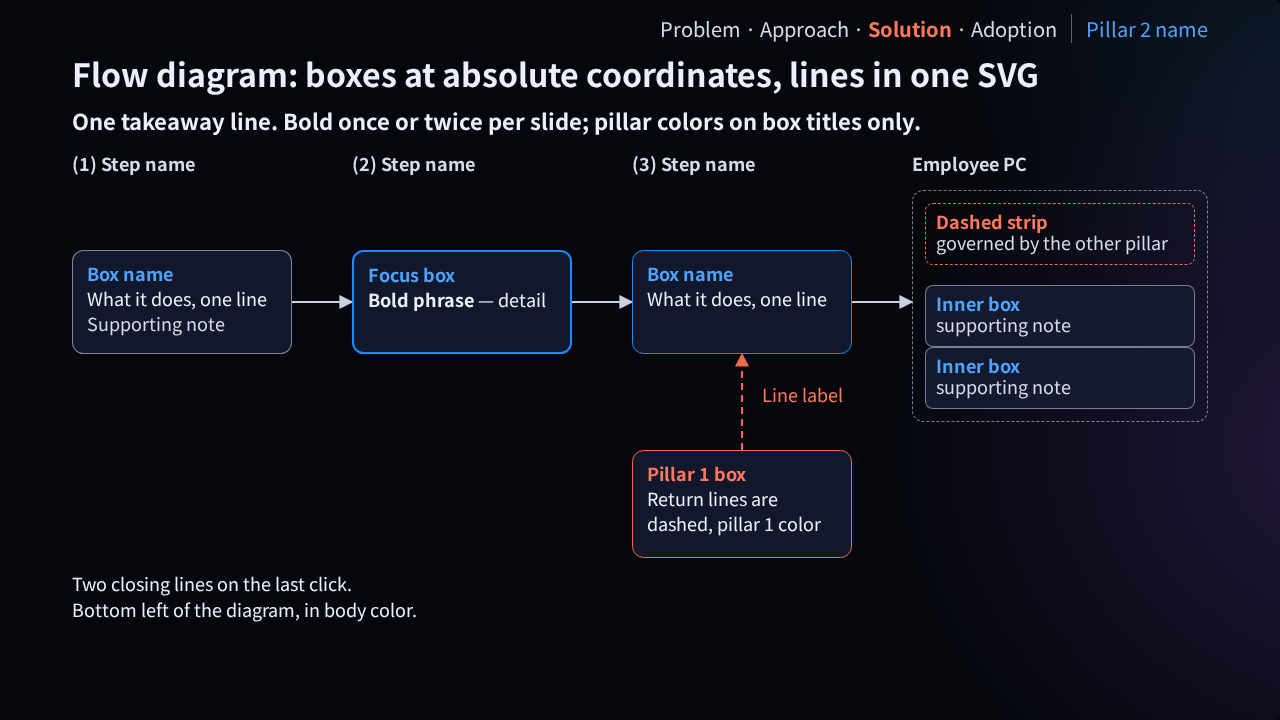
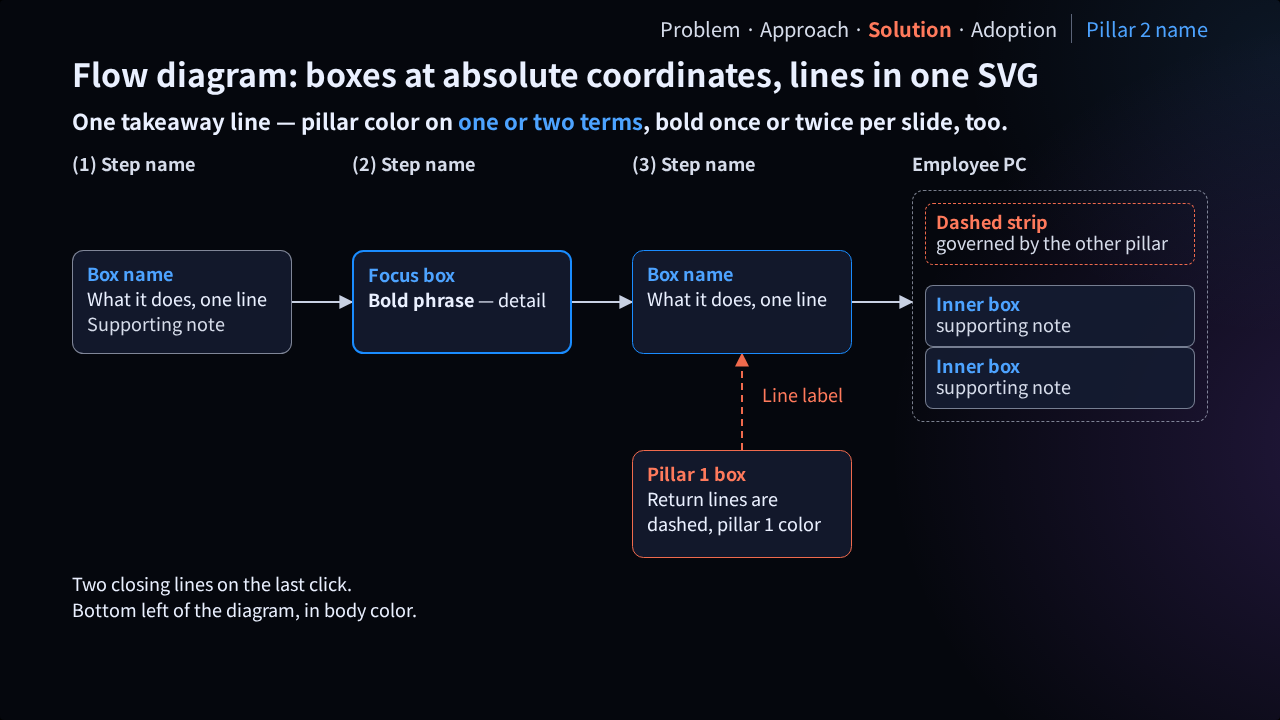
deck-web: write down the color rule — pillar color on one to three key terms in title and takeaway
SKILL.md and lessons.md state the rule; the template's slide-2 takeaway placeholder said the opposite and is fixed (en.json key updated, renders re-captured).

Changed region(s): [[0.2188, 0.1528, 0.7812, 0.1833]]

diff --git a/plugins/deck-design/skills/deck-web/templates/deck.html b/plugins/deck-design/skills/deck-web/templates/deck.html
@@ -294,7 +294,7 @@
   <section class="slide" data-title="흐름 도식">
     <p class="rail">문제 · 접근 · <b>해법</b> · 적용<span class="chip p2">기둥 2 이름</span></p>
     <h2>흐름 도식: 상자는 절대 좌표, 선은 SVG 한 장</h2>
-    <p class="takeaway">결론 한 줄. <b>굵게</b>는 장당 한두 곳, 기둥 색은 상자 제목에만.</p>
+    <p class="takeaway">결론 한 줄 — 핵심어 <span class="p2">한두 곳</span>만 기둥 색, <b>굵게</b>도 장당 한두 곳.</p>
     <div class="diag" style="height: 470px">
       <svg class="lines" viewBox="0 0 1136 470" aria-hidden="true">
         <g data-step="2" fill="none" stroke="#C9D1E3" stroke-width="2"><path d="M220 152 H280" marker-end="url(#ah)"/></g>

diff --git a/plugins/deck-design/skills/deck-web/reference/lessons.md b/plugins/deck-design/skills/deck-web/reference/lessons.md
@@ -17,6 +17,10 @@ lessons live in `../../deck-build/reference/korean-deck-notes.md` and apply here
 - **A fixed pill in the corner is invisible.** The first 한|EN toggle was pinned bottom-right; the author said it
   was not easily visible. It moved into the controls row beside ← 이전 / 다음 → with the same button look (current
   language bold).
+- **Color the key terms, not the sentence.** The author's rule on the first deck: the title and the takeaway
+  carry one to three pillar-colored terms per slide (`.p1` / `.p2`), box titles take their pillar's color and
+  only the focus box doubles its border. Everything else stays white or gray, so the colored term is the
+  thing the eye lands on.
 - **Fullscreen hides the controls row.** Every control needs a key: N notes, F fullscreen, E language.
 - **og:image must be absolute.** The preview card ignores a relative `cover.png`; the deploy script rewrites it to
   `https://<distribution>/cover.png` on every run, so the source file keeps the relative path.

diff --git a/plugins/deck-design/skills/deck-web/SKILL.md b/plugins/deck-design/skills/deck-web/SKILL.md
@@ -31,6 +31,9 @@ pptx twin built from the same coordinates.
 - **Tokens** in `:root`: the aurora-black colors (coral = pillar 1, blue = pillar 2, gray = everything else) and
   the type scale 53 / 40 / 32 / 24 / 20 / 13.3 px (= 40 / 30 / 24 / 18 / 15 / 10 pt). Three sizes per slide at
   most, 20 px floor, 13.3 px for sources only.
+- **Color on terms, not sentences**: in the title and the takeaway, the one to three terms that carry the
+  slide take the pillar color (`<span class="p1">` coral, `<span class="p2">` blue); box titles take their
+  pillar's color; everything else stays white or gray. A whole sentence in color reads as decoration.
 - **Layouts in the template**: question cover · rail + title + takeaway · pillar cards (question ▼ answer) and
   option cards (badge · lines · verdict) · bridge chip · flow diagram (absolute nodes + one SVG of connectors) ·
   step grid · glossary rows · figure with overlays. Each is one CSS block — delete the ones the deck does not use.
